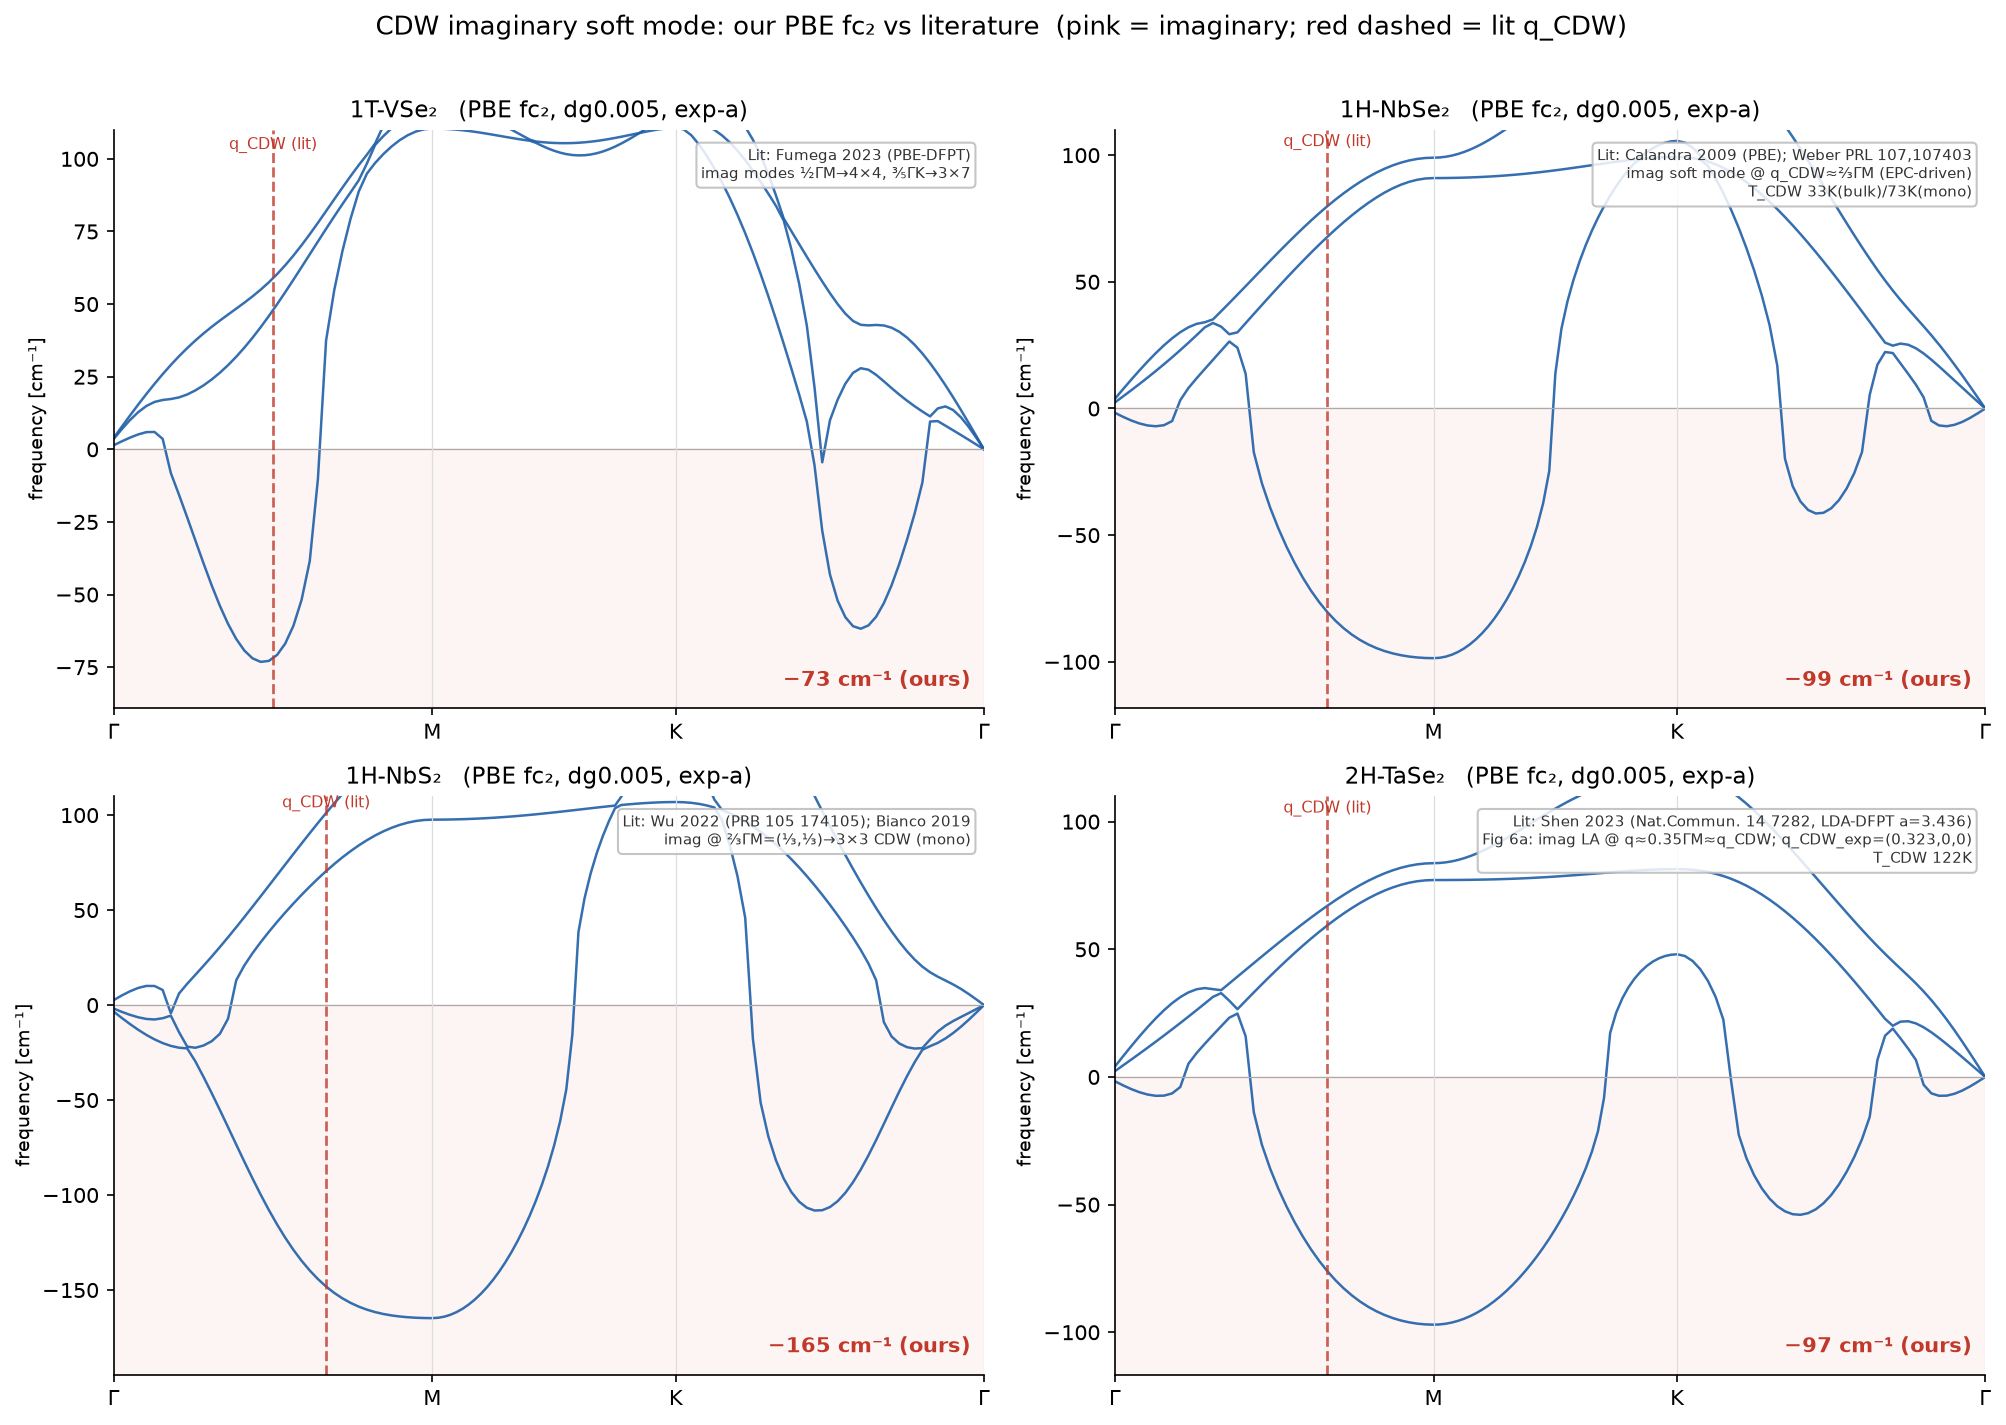
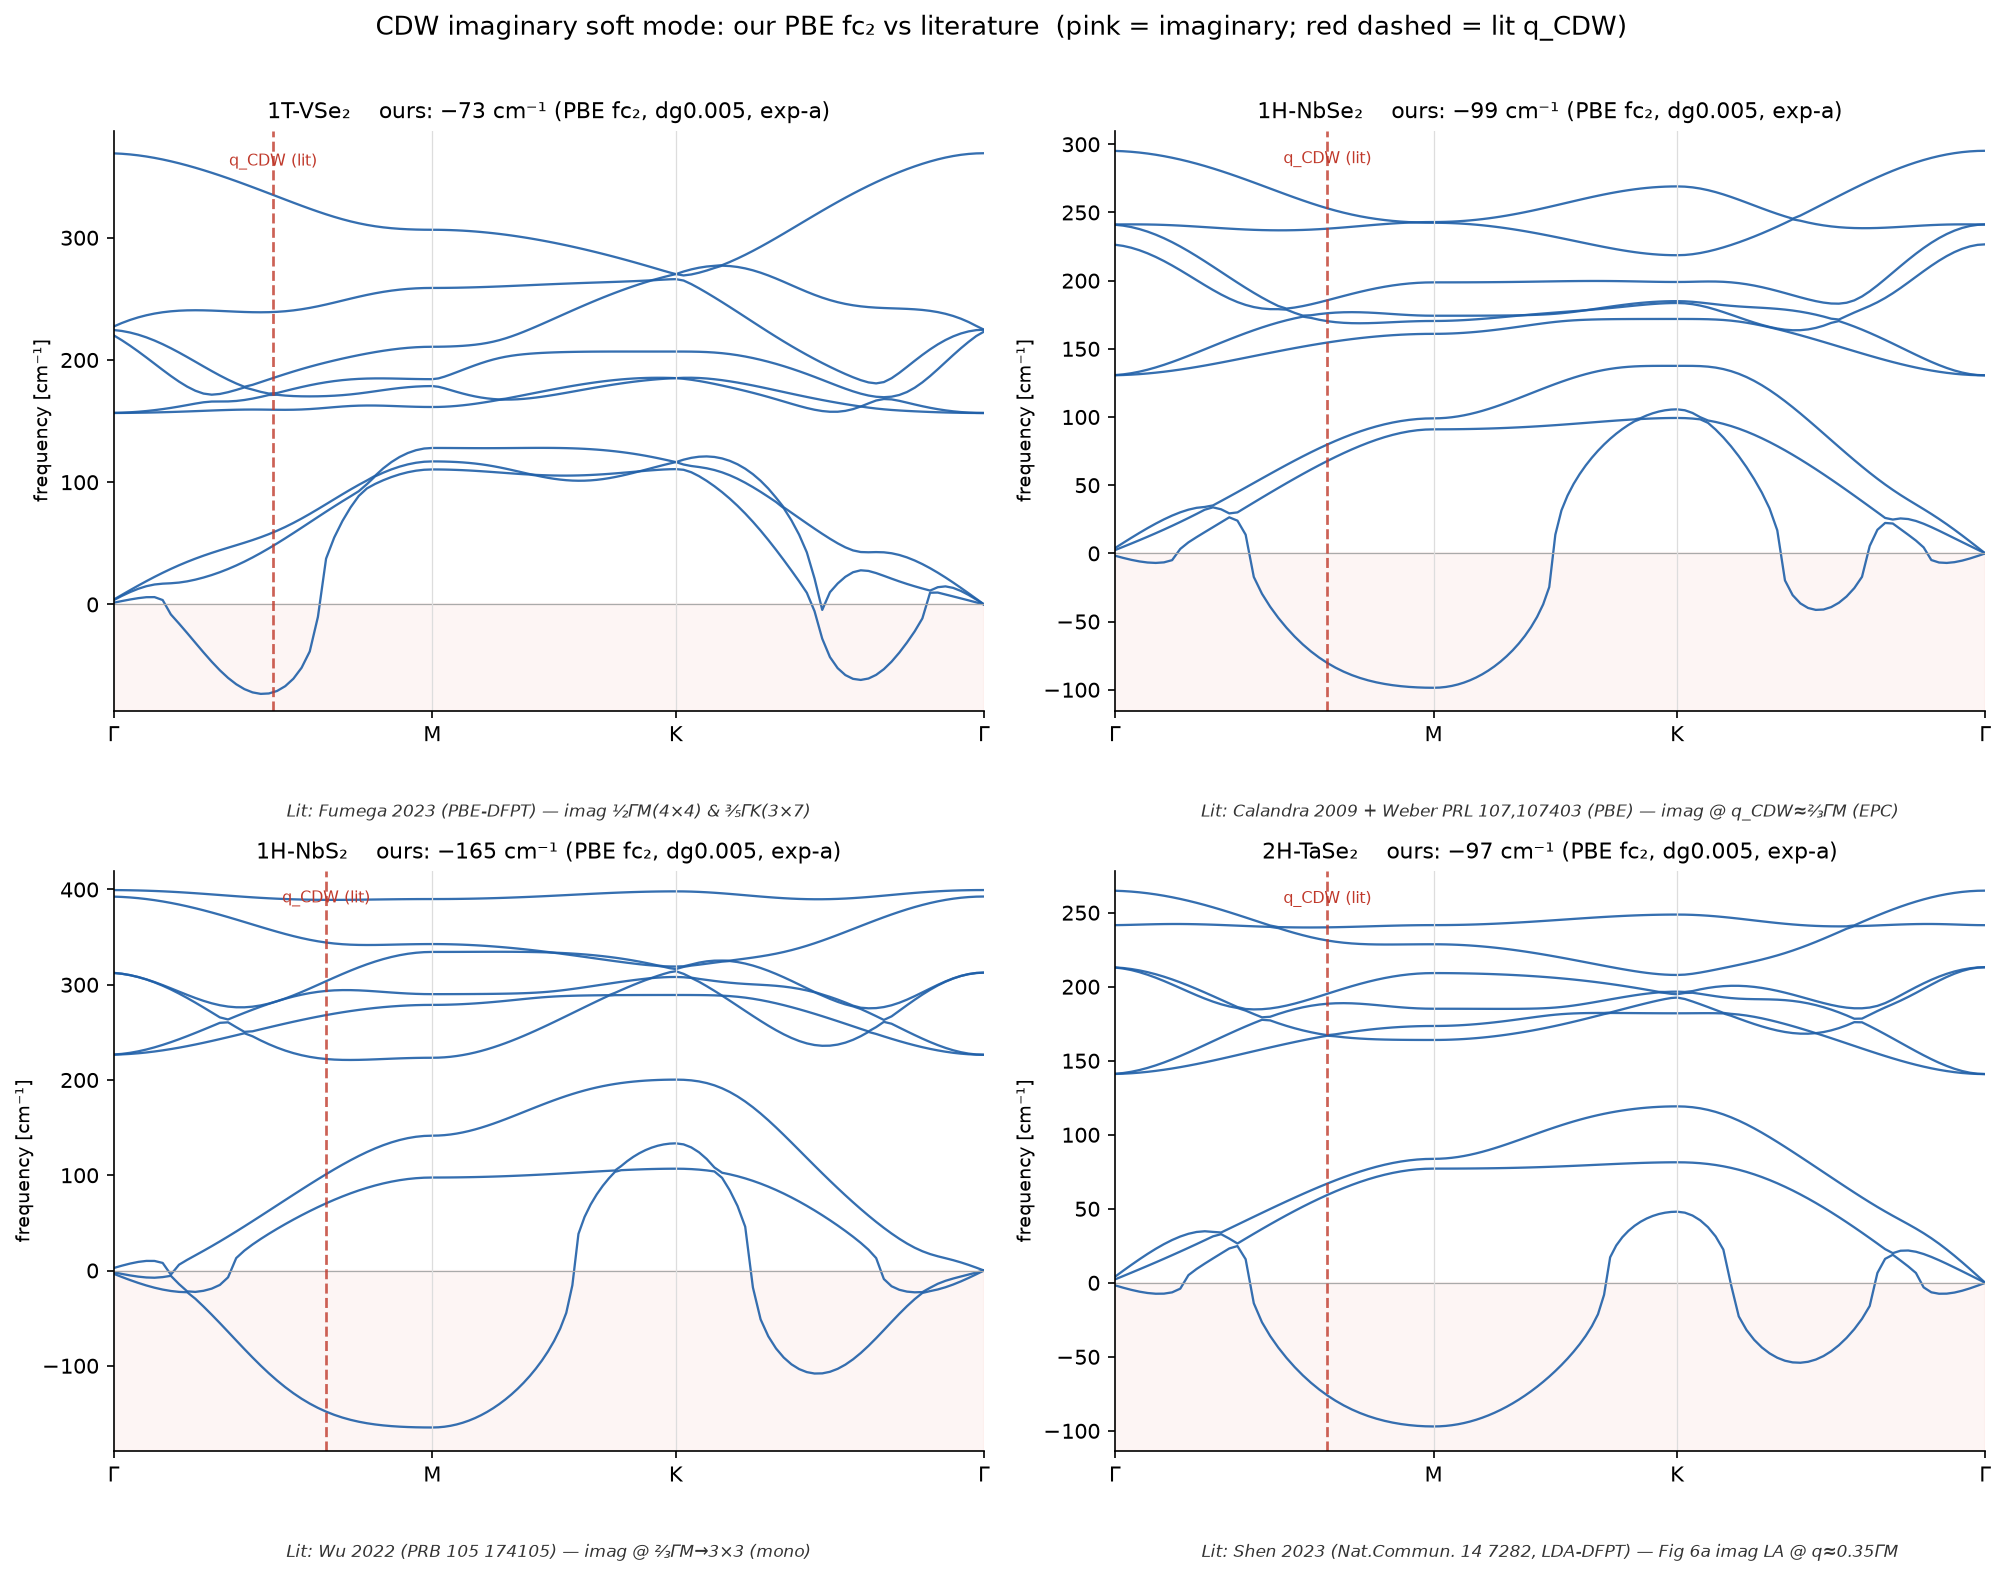
cdw_lit_compare: show FULL dispersion (was clipped at 110 cm^-1, optical branches cut)
Previous ylim zoomed to the acoustic/CDW region and clipped the optical branches ("截掉").
Now full frequency range per panel; literature citation moved to a caption below each panel
(no on-axes box -> no overlap with optical branches). Pink imaginary region + red q_CDW marker kept.

diff --git a/scripts/v100/plot_cdw_lit_compare.py b/scripts/v100/plot_cdw_lit_compare.py
@@ -39,26 +39,22 @@ def bands(yaml_path, nseg=40):
     tick = [x[0], x[seg - 1], x[2 * seg - 1], x[-1]]
     return x, freq, tick
 
-# material: (yaml, q_CDW fraction along Gamma-M, ylim, literature annotation, our-depth-label)
+# material: (display, yaml, q_CDW fraction along Gamma-M, our-depth, short lit citation)
 MATS = [
     ("1T-VSe₂", ROOT/"results"/"vq_family"/"vse2"/"1T-VSe2_dg0.005.yaml", 0.50,
-     "Lit: Fumega 2023 (PBE-DFPT)\nimag modes ½ΓM→4×4, ⅗ΓK→3×7",
-     "−73 cm⁻¹ (ours)"),
+     "−73", "Lit: Fumega 2023 (PBE-DFPT) — imag ½ΓM(4×4) & ⅗ΓK(3×7)"),
     ("1H-NbSe₂", ROOT/"results"/"v100"/"fc2_nbse2_3x3_0.005"/"NbSe2_phonopy.yaml", 2/3,
-     "Lit: Calandra 2009 (PBE); Weber PRL 107,107403\nimag soft mode @ q_CDW≈⅔ΓM (EPC-driven)\nT_CDW 33K(bulk)/73K(mono)",
-     "−99 cm⁻¹ (ours)"),
+     "−99", "Lit: Calandra 2009 + Weber PRL 107,107403 (PBE) — imag @ q_CDW≈⅔ΓM (EPC)"),
     ("1H-NbS₂", ROOT/"results"/"v100"/"fc2_nbs2_3x3_0.005"/"NbS2_phonopy.yaml", 2/3,
-     "Lit: Wu 2022 (PRB 105 174105); Bianco 2019\nimag @ ⅔ΓM=(⅓,⅓)→3×3 CDW (mono)",
-     "−165 cm⁻¹ (ours)"),
+     "−165", "Lit: Wu 2022 (PRB 105 174105) — imag @ ⅔ΓM→3×3 (mono)"),
     ("2H-TaSe₂", ROOT/"results"/"v100"/"fc2_tase2_3x3_0.005"/"2H-TaSe2_phonopy.yaml", 2/3,
-     "Lit: Shen 2023 (Nat.Commun. 14 7282, LDA-DFPT a=3.436)\nFig 6a: imag LA @ q≈0.35ΓM≈q_CDW; q_CDW_exp=(0.323,0,0)\nT_CDW 122K",
-     "−97 cm⁻¹ (ours)"),
+     "−97", "Lit: Shen 2023 (Nat.Commun. 14 7282, LDA-DFPT) — Fig 6a imag LA @ q≈0.35ΓM"),
 ]
 
-fig, axes = plt.subplots(2, 2, figsize=(13.5, 9.5))
-for ax, (name, yml, qfrac, lit, ours) in zip(axes.flat, MATS):
+fig, axes = plt.subplots(2, 2, figsize=(13.5, 10.5))
+for ax, (name, yml, qfrac, ours, lit) in zip(axes.flat, MATS):
     x, freq, tick = bands(yml)
-    ax.plot(x, freq, color="#1f5fa8", lw=1.2, alpha=0.9)
+    ax.plot(x, freq, color="#1f5fa8", lw=1.1, alpha=0.9)
     ax.axhline(0, color="#aaa", lw=0.6)
     for xt in tick[1:-1]:
         ax.axvline(xt, color="#ddd", lw=0.6)
@@ -67,22 +63,24 @@ for ax, (name, yml, qfrac, lit, ours) in zip(axes.flat, MATS):
     seglen = tick[1] - tick[0]
     qcdw_x = tick[0] + qfrac * seglen
     ax.axvline(qcdw_x, color="#c0392b", lw=1.3, ls="--", alpha=0.8)
-    ymin = float(freq.min())
-    ax.set_ylim(ymin * 1.15 - 5, 110)
+    ymin = float(freq.min()); ymax = float(freq.max())
+    ax.set_ylim(ymin * 1.12 - 5, ymax * 1.05)            # FULL range — nothing cut
     ax.set_xlim(tick[0], tick[-1])
     # shade the imaginary region
-    ax.axhspan(ymin * 1.15 - 5, 0, color="#fdecea", alpha=0.5, zorder=0)
-    ax.set_title(f"{name}   (PBE fc₂, dg0.005, exp-a)", fontsize=11)
-    ax.text(0.985, 0.03, ours, transform=ax.transAxes, ha="right", va="bottom",
-            fontsize=10, color="#c0392b", fontweight="bold")
-    ax.text(0.985, 0.97, lit, transform=ax.transAxes, ha="right", va="top",
-            fontsize=7.2, color="#333",
-            bbox=dict(boxstyle="round,pad=0.3", fc="white", ec="#bbb", alpha=0.85))
-    ax.text(qcdw_x, 102, "q_CDW (lit)", color="#c0392b", fontsize=7.5,
-            ha="center", va="bottom", rotation=0)
+    ax.axhspan(ymin * 1.12 - 5, 0, color="#fdecea", alpha=0.5, zorder=0)
+    ax.set_title(f"{name}    ours: {ours} cm⁻¹ (PBE fc₂, dg0.005, exp-a)", fontsize=10.5)
+    ax.text(qcdw_x, ymax * 1.00, "q_CDW (lit)", color="#c0392b", fontsize=7.8,
+            ha="center", va="top")
+    # literature citation as a clean caption below the panel (no on-axes box -> no overlap)
+    ax.text(0.5, -0.16, lit, transform=ax.transAxes, ha="center", va="top",
+            fontsize=8.2, color="#333", style="italic")
     ax.set_ylabel("frequency [cm⁻¹]", fontsize=9)
     for s in ("top", "right"):
         ax.spines[s].set_visible(False)
+
+fig.suptitle("CDW imaginary soft mode: our PBE fc₂ vs literature  (pink = imaginary; red dashed = lit q_CDW)",
+             fontsize=12.5, y=0.995)
+fig.tight_layout(rect=[0, 0.02, 1, 0.985])
 
 fig.suptitle("CDW imaginary soft mode: our PBE fc₂ vs literature  (pink = imaginary; red dashed = lit q_CDW)",
              fontsize=12.5, y=0.995)
